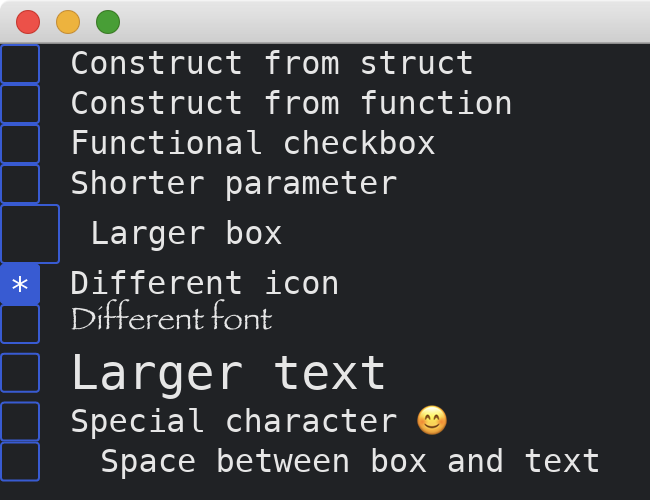
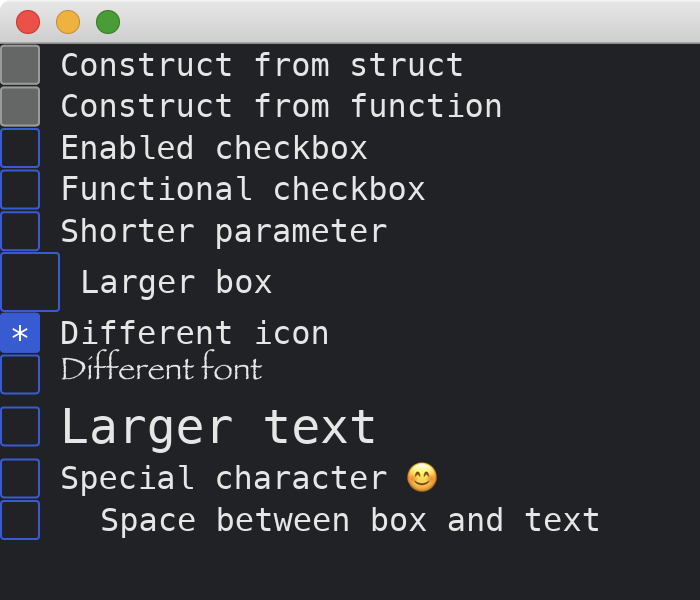
Update tutorial to 0.12.1 for checkbox

diff --git a/tutorial/checkbox.md b/tutorial/checkbox.md
@@ -2,14 +2,22 @@
 
 The [Checkbox](https://docs.rs/iced/0.12.1/iced/widget/checkbox/struct.Checkbox.html) widget represents a boolean value.
 It has two methods of constructions.
+If the [on_toggle](https://docs.rs/iced/0.12.1/iced/widget/struct.Checkbox.html#method.on_toggle) method is set, it is enabled, and is disabled otherwise.
 It supports reactions to clicking and touching.
 It is able to change styles of the box and the text.
 It can also change the space between them.
 
 ```rust
 use iced::{
-    widget::{checkbox, checkbox::Icon, column, Checkbox, text::{LineHeight, Shaping}},
-    Sandbox, Settings, Font, font::Family,
+    font::Family,
+    widget::{
+        checkbox,
+        checkbox::Icon,
+        column,
+        text::{LineHeight, Shaping},
+        Checkbox,
+    },
+    Font, Sandbox, Settings,
 };
 
 fn main() -> iced::Result {
@@ -19,23 +27,21 @@ fn main() -> iced::Result {
 #[derive(Debug, Clone)]
 enum MyAppMessage {
     DoNothing,
-    Update3(bool),
     Update4(bool),
+    Update5(bool),
 }
 
 #[derive(Default)]
 struct MyApp {
-    checkbox3: bool,
     checkbox4: bool,
+    checkbox5: bool,
 }
 
 impl Sandbox for MyApp {
     type Message = MyAppMessage;
 
     fn new() -> Self {
-        Self {
-            ..Default::default()
-        }
+        Self::default()
     }
 
     fn title(&self) -> String {
@@ -45,34 +51,45 @@ impl Sandbox for MyApp {
     fn update(&mut self, message: Self::Message) {
         match message {
             MyAppMessage::DoNothing => {}
-            MyAppMessage::Update3(b) => self.checkbox3 = b,
             MyAppMessage::Update4(b) => self.checkbox4 = b,
+            MyAppMessage::Update5(b) => self.checkbox5 = b,
         }
     }
 
     fn view(&self) -> iced::Element<'_, Self::Message> {
         column![
-            Checkbox::new("Construct from struct", false).on_toggle(|_| MyAppMessage::DoNothing),
-            checkbox("Construct from function", false).on_toggle(|_| {
-                MyAppMessage::DoNothing
-            }),
-            checkbox("Functional checkbox", self.checkbox3).on_toggle(|b| MyAppMessage::Update3(b)),
-            checkbox("Shorter parameter", self.checkbox4).on_toggle(MyAppMessage::Update4),
-            checkbox("Larger box", false).on_toggle(|_| MyAppMessage::DoNothing).size(30),
-            checkbox("Different icon", true).on_toggle(|_| MyAppMessage::DoNothing).icon(Icon {
-                font: Font::DEFAULT,
-                code_point: '*',
-                size: None,
-                line_height: LineHeight::default(),
-                shaping: Shaping::default()
-            }),
-            checkbox("Different font", false).on_toggle(|_| MyAppMessage::DoNothing).font(Font {
-                family: Family::Fantasy,
-                ..Font::DEFAULT
-            }),
-            checkbox("Larger text", false).on_toggle(|_| MyAppMessage::DoNothing).text_size(24),
-            checkbox("Special character 😊", false).on_toggle(|_| MyAppMessage::DoNothing).text_shaping(Shaping::Advanced),
-            checkbox("Space between box and text", false).on_toggle(|_| MyAppMessage::DoNothing).spacing(30),
+            Checkbox::new("Construct from struct", false),
+            checkbox("Construct from function", false),
+            checkbox("Enabled checkbox", false).on_toggle(|_| MyAppMessage::DoNothing),
+            checkbox("Functional checkbox", self.checkbox4).on_toggle(|b| MyAppMessage::Update4(b)),
+            checkbox("Shorter parameter", self.checkbox5).on_toggle(MyAppMessage::Update5),
+            checkbox("Larger box", false)
+                .on_toggle(|_| MyAppMessage::DoNothing)
+                .size(30),
+            checkbox("Different icon", true)
+                .on_toggle(|_| MyAppMessage::DoNothing)
+                .icon(Icon {
+                    font: Font::DEFAULT,
+                    code_point: '*',
+                    size: None,
+                    line_height: LineHeight::default(),
+                    shaping: Shaping::default()
+                }),
+            checkbox("Different font", false)
+                .on_toggle(|_| MyAppMessage::DoNothing)
+                .font(Font {
+                    family: Family::Fantasy,
+                    ..Font::DEFAULT
+                }),
+            checkbox("Larger text", false)
+                .on_toggle(|_| MyAppMessage::DoNothing)
+                .text_size(24),
+            checkbox("Special character 😊", false)
+                .on_toggle(|_| MyAppMessage::DoNothing)
+                .text_shaping(Shaping::Advanced),
+            checkbox("Space between box and text", false)
+                .on_toggle(|_| MyAppMessage::DoNothing)
+                .spacing(30),
         ]
         .into()
     }
